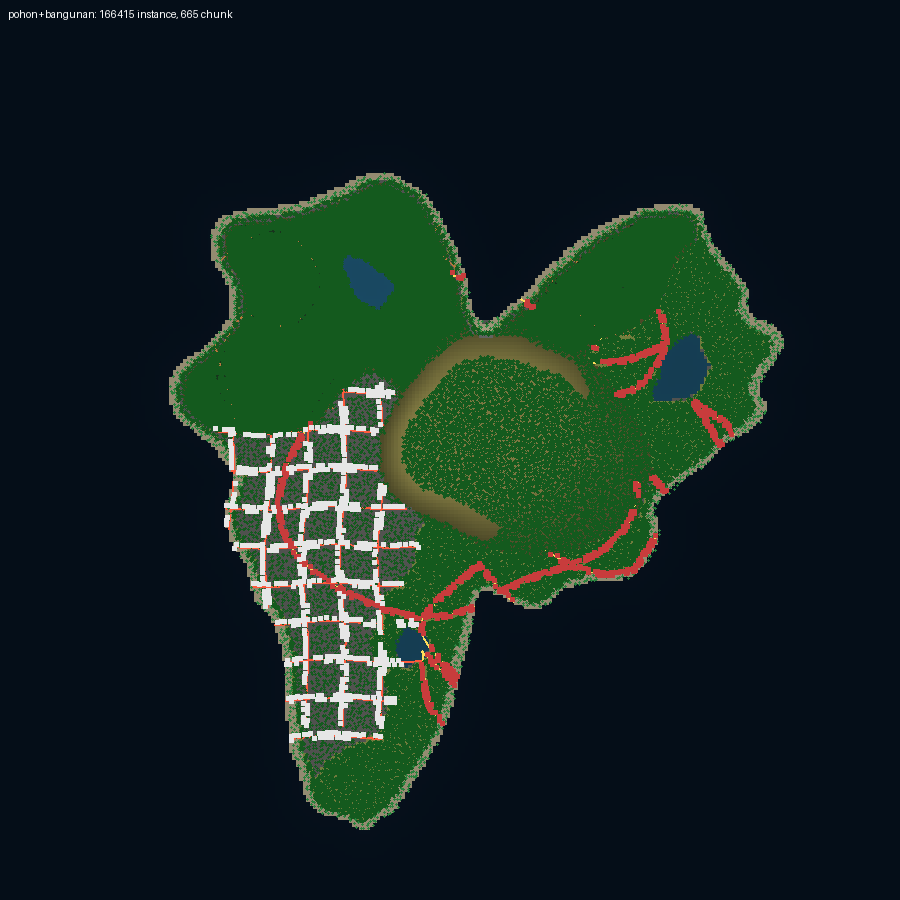
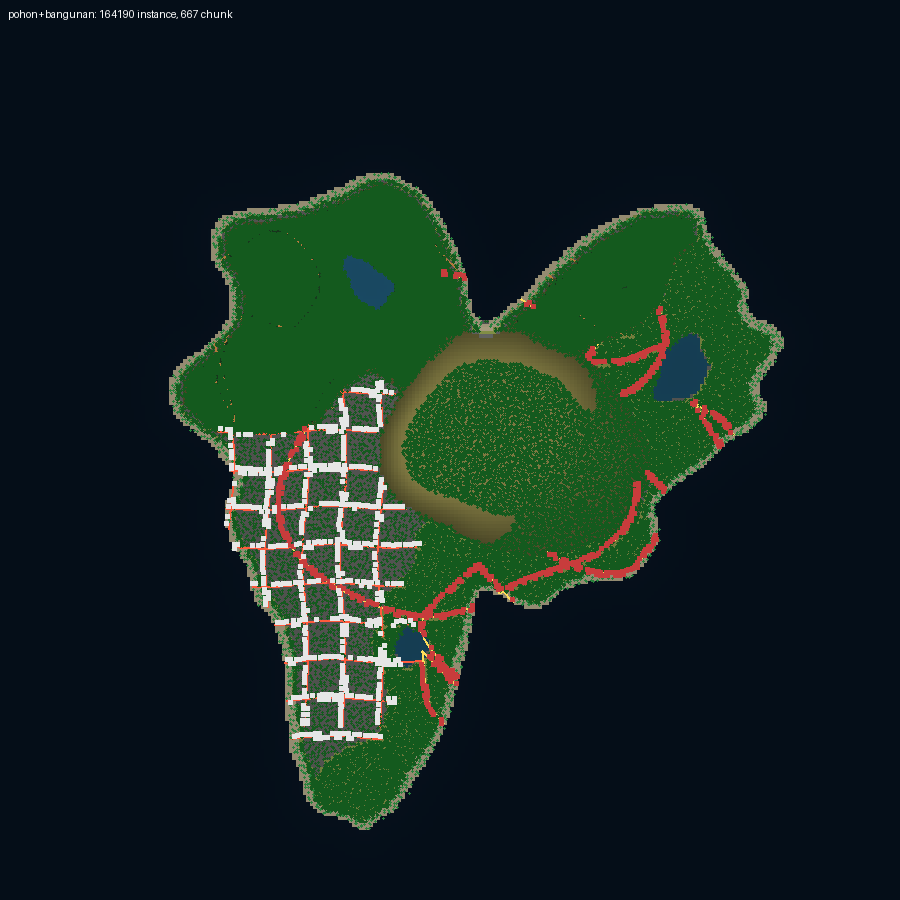
Jalan mengikuti terrain final, pohon bebas jalan, tekstur lebih tajam, siap Android 15
- Rantai aset: build_world (pad) -> build_roads -> build_world -> fix_scene.
  Sebelumnya jalan dibuat sebelum terrain diratakan sehingga 17% verteks
  tenggelam; sekarang 0.
- build_world: peta jarak presisi ke tepi jalan (road_d) menggantikan grid
  37,5 m; pohon/rumah/gedung tidak lagi menempel jalan (707 -> 0).
  Seed per tahap (reseed) agar menjalankan ulang tidak menggeser dunia.
- gltf.cpp: mip dibatasi 1/4 resolusi + anisotropic 8x (tekstur miring tajam),
  pack_assets: unsharp mask + JPEG 4:4:4 q92.
- apkbuild: extractNativeLibs=false, .so tersimpan & selaras 16 KB (Android 15),
  APK 21 MB.

diff --git a/tools/build_world.py b/tools/build_world.py
@@ -25,6 +25,17 @@ from build_roads import Terrain, GEN, PREV  # noqa: E402
 SEED = 20261106
 rng = np.random.default_rng(SEED)
 
+
+def reseed(tag):
+    """Seed per tahap: script ini dijalankan dua kali (sebelum & sesudah jalan
+    dibuat) dan hasilnya harus identik. Tanpa ini, pemakaian rng bersama membuat
+    pohon/gedung bergeser setiap kali urutan tahap berubah."""
+    global rng
+    off = 0
+    for ch in tag:                      # hash stabil (hash() berubah antar proses)
+        off = (off * 131 + ord(ch)) % 100000
+    rng = np.random.default_rng(SEED + off)
+
 # tipe objek: 0 oak,1 spruce,2 sakura,3 palm, 4..15 rumah desa A1..D3, 16..27 gedung kota A1..D3
 TYPE_TREE_OAK, TYPE_TREE_SPRUCE, TYPE_TREE_SAKURA, TYPE_TREE_PALM = 0, 1, 2, 3
 TYPE_DESA0, TYPE_KOTA0 = 4, 16
@@ -63,8 +74,9 @@ class World:
         self.roads = json.load(open(os.path.join(GEN, "roads.json")))
         self.dx = (x1 - x0) / (N - 1)
         self.dz = (z1 - z0) / (N - 1)
-        # grid jarak ke jalan (untuk larangan pohon di jalan)
+        # peta jarak ke jalan (untuk larangan pohon di jalan) + penanda kasar
         self.road_grid = np.zeros((N, N), np.uint8)
+        self.road_d = np.full((N, N), 999.0, np.float32)
         self.raster_roads()
         self.slope = self.compute_slope(self.H0)
 
@@ -90,8 +102,13 @@ class World:
                         else:
                             t = max(0.0, min(1.0, ((px - x0) * vx + (pz - z0) * vz) / L2))
                         ddx = px - (x0 + t * vx); ddz = pz - (z0 + t * vz)
-                        if ddx * ddx + ddz * ddz <= w * w:
+                        d2 = ddx * ddx + ddz * ddz
+                        if d2 <= w * w:
                             self.road_grid[jj, ii] = 1
+                        # jarak presisi ke tepi jalan (badan + trotoar)
+                        edge = math.sqrt(d2) - w
+                        if edge < self.road_d[jj, ii]:
+                            self.road_d[jj, ii] = edge
 
     def compute_slope(self, H):
         gy, gx = np.gradient(H, self.dz, self.dx)
@@ -111,7 +128,7 @@ class World:
         j = int(np.clip((z - self.z0) / self.dz, 0, self.N - 1))
         return j, i
 
-    def valid_spot(self, x, z, max_slope=25.0, min_h=1.2):
+    def valid_spot(self, x, z, max_slope=22.0, min_h=1.2, edge_clear=3.0):
         j, i = self.cell(x, z)
         if self.bio[j, i] in (0, 6):
             return False
@@ -119,7 +136,8 @@ class World:
             return False
         if self.slope[j, i] > max_slope:
             return False
-        if self.road_grid[j, i]:
+        # uji jarak presisi: grid 37,5 m terlalu kasar untuk tepi jalan
+        if self.road_d[j, i] < edge_clear:
             return False
         return True
 
@@ -141,6 +159,7 @@ class World:
 
     # -------------------------------------------------------------- penempatan
     def place_trees(self):
+        reseed("trees")
         out = []
         N = self.N
         dxs = (self.x1 - self.x0) / N
@@ -194,6 +213,7 @@ class World:
         return pts
 
     def place_buildings(self):
+        reseed("buildings")
         buildings = []
         occupied = []
 
@@ -216,7 +236,7 @@ class World:
             side = 1.0 if rng.random() < 0.5 else -1.0
             off = w * 0.5 + 9.0 + rng.uniform(0, 6)
             bx = x + (-tz) * off * side; bz = z + (tx) * off * side
-            if not self.valid_spot(bx, bz, max_slope=12.0):
+            if not self.valid_spot(bx, bz, max_slope=12.0, edge_clear=4.5):
                 continue
             if not far_enough(bx, bz, 14.0):
                 continue
@@ -243,7 +263,7 @@ class World:
                     continue
                 off = w * 0.5 + 2.0 + 10.0 + rng.uniform(0, 8)
                 bx = x + (-tz) * off * side; bz = z + (tx) * off * side
-                if not self.valid_spot(bx, bz, max_slope=10.0):
+                if not self.valid_spot(bx, bz, max_slope=10.0, edge_clear=4.5):
                     continue
                 if not far_enough(bx, bz, 26.0):
                     continue

diff --git a/app/jni/platform.cpp b/app/jni/platform.cpp
@@ -41,6 +41,7 @@ void (*pglClearColor)(float, float, float, float); void (*pglViewport)(int, int,
 void (*pglDepthFunc)(GLenumT); void (*pglDepthMask)(GLbooleanT); void (*pglCullFace)(GLenumT);
 void (*pglFrontFace)(GLenumT); void (*pglBlendFunc)(GLenumT, GLenumT); void (*pglScissor)(int, int, int, int);
 void (*pglGetIntegerv)(GLenumT, int*); const char* (*pglGetString)(GLenumT);
+void (*pglTexParameterf)(GLenumT, GLenumT, float); void (*pglGetFloatv)(GLenumT, float*);
 void (*pglPixelStorei)(GLenumT, int); void (*pglPolygonOffset)(float, float);
 void (*pglGenBuffers)(int, GLuintT*); void (*pglBindBuffer)(GLenumT, GLuintT);
 void (*pglBufferData)(GLenumT, GLsizeiptrT, const void*, GLenumT);
@@ -114,7 +115,8 @@ bool glLoadAll() {
         "glUniform1i", "glUniform1f", "glUniform2f", "glUniform3f", "glUniform4f",
         "glUniformMatrix4fv", "glGenTextures", "glBindTexture", "glTexImage2D",
         "glTexParameteri", "glDeleteTextures", "glGenerateMipmap", "glActiveTexture",
-        "glDrawElements", "glDrawArrays", "glDrawElementsInstanced", "glDrawArraysInstanced"};
+        "glDrawElements", "glDrawArrays", "glDrawElementsInstanced", "glDrawArraysInstanced",
+        "glTexParameterf", "glGetFloatv"};
     static void** dst[] = {
         (void**)&pglEnable, (void**)&pglDisable, (void**)&pglClear, (void**)&pglClearColor,
         (void**)&pglViewport, (void**)&pglDepthFunc, (void**)&pglDepthMask, (void**)&pglCullFace,
@@ -135,7 +137,7 @@ bool glLoadAll() {
         (void**)&pglBindTexture, (void**)&pglTexImage2D, (void**)&pglTexParameteri,
         (void**)&pglDeleteTextures, (void**)&pglGenerateMipmap, (void**)&pglActiveTexture,
         (void**)&pglDrawElements, (void**)&pglDrawArrays, (void**)&pglDrawElementsInstanced,
-        (void**)&pglDrawArraysInstanced};
+        (void**)&pglDrawArraysInstanced, (void**)&pglTexParameterf, (void**)&pglGetFloatv};
     int n = (int)(sizeof(names) / sizeof(names[0]));
     for (int i = 0; i < n; i++) {
         void* p = dlsym(gl, names[i]);

diff --git a/tools/apkbuild.py b/tools/apkbuild.py
@@ -34,6 +34,7 @@ RES_IDS = {
     "resizeableActivity": 0x010104f7, "exported": 0x01010010,
     "allowBackup": 0x01010280, "value": 0x01010024, "required": 0x0101028e,
     "hasCode": 0x0101000c, "usesCleartextTraffic": 0x010104ec,
+    "extractNativeLibs": 0x010104ea,
 }
 
 TYPE_REF, TYPE_STRING, TYPE_INT_DEC, TYPE_INT_HEX, TYPE_BOOL = 0x01, 0x03, 0x10, 0x11, 0x12
@@ -189,6 +190,8 @@ def manifest_tree(pkg, version_name, version_code, min_sdk, target_sdk, lib_name
         (A, "debuggable", _b(True)),
         (A, "hardwareAccelerated", _b(True)),
         (A, "allowBackup", _b(False)),
+        # Android 15/16: lib dibaca langsung dari APK (butuh .so tersimpan + selaras 16 KB)
+        (A, "extractNativeLibs", _b(False)),
     ], [native])
     return el("manifest", [
         ("", "package", _s(pkg)),
@@ -355,7 +358,10 @@ def build(out, lib_path, assets_dir, version_name, version_code, min_sdk, target
     man = build_axml(root)
     zw = ZipWriter()
     zw.add("AndroidManifest.xml", man, compress=True)
-    zw.add("lib/arm64-v8a/lib%s.so" % LIB, open(lib_path, "rb").read(), compress=True)
+    # .so TIDAK dikompresi & data-nya selaras 16384 (syarat Android 15+ untuk
+    # extractNativeLibs=false; sekaligus aman untuk semua versi lama).
+    zw.add("lib/arm64-v8a/lib%s.so" % LIB, open(lib_path, "rb").read(), compress=False,
+           align=16384)
     n_assets = 0
     for base, _, files in os.walk(assets_dir):
         for f in sorted(files):

diff --git a/app/jni/gltf.cpp b/app/jni/gltf.cpp
@@ -79,9 +79,29 @@ static u32 uploadTexture(const u8* enc, int len, int texMax) {
     pglTexParameteri(GL_TEXTURE_2D, GL_TEXTURE_MAG_FILTER, GL_LINEAR);
     pglTexParameteri(GL_TEXTURE_2D, GL_TEXTURE_WRAP_S, GL_REPEAT);
     pglTexParameteri(GL_TEXTURE_2D, GL_TEXTURE_WRAP_T, GL_REPEAT);
+    // mip hanya sampai 1/4 res: mip terkecil membuat permukaan miring (jalan/jembatan)
+    // terlihat buram, sementara pop aliasing praktis tidak terlihat di layar HP.
+    {
+        int lv = 0;
+        while ((w >> (lv + 2)) > 0 && (h >> (lv + 2)) > 0 && lv < 8) lv++;
+        pglTexParameteri(GL_TEXTURE_2D, GL_TEXTURE_MAX_LEVEL, lv);
+    }
     pglPixelStorei(GL_UNPACK_ALIGNMENT, 1);
     pglTexImage2D(GL_TEXTURE_2D, 0, GL_RGBA, w, h, 0, GL_RGBA, GL_UNSIGNED_BYTE, pix);
     pglGenerateMipmap(GL_TEXTURE_2D);
+    // anisotropic filtering: tekstur aspal & beton dilihat sangat miring saat menyetir
+    if (pglTexParameterf) {
+        static float aniso = -1.f;
+        if (aniso < 0.f) {
+            aniso = 1.f;
+            if (pglGetFloatv) {
+                float mx = 1.f;
+                pglGetFloatv(GL_MAX_TEXTURE_MAX_ANISOTROPY_EXT, &mx);
+                if (mx >= 2.f) aniso = mx > 8.f ? 8.f : mx;
+            }
+        }
+        if (aniso > 1.f) pglTexParameterf(GL_TEXTURE_2D, GL_TEXTURE_MAX_ANISOTROPY_EXT, aniso);
+    }
     stbi_image_free(pix);
     return tex;
 }

diff --git a/tools/pack_assets.py b/tools/pack_assets.py
@@ -21,7 +21,7 @@ import struct
 import sys
 
 import numpy as np
-from PIL import Image
+from PIL import Image, ImageFilter
 
 
 ROOT = os.path.dirname(os.path.dirname(os.path.abspath(__file__)))
@@ -74,8 +74,13 @@ def png_embed(js, bin_, img_index, maxpx=1024, quality=92):
     im = Image.open(io.BytesIO(data)).convert("RGB")
     if max(im.size) > maxpx:
         im.thumbnail((maxpx, maxpx), Image.LANCZOS)
+    # Unsharp mask ringan: tekstur hasil render/sketsa sumber sering kehilangan
+    # kontras tepi setelah penskalaan, ini yang terbaca "burem" di layar HP.
+    im = im.filter(ImageFilter.UnsharpMask(radius=1.2, percent=55, threshold=2))
+    # 4:4:4 (tanpa subsampling kroma) supaya tepi berwarna tetap tajam;
+    # dengan quality 92 ukurannya masih wajar.
     b = io.BytesIO()
-    im.save(b, "JPEG", quality=quality, optimize=True)
+    im.save(b, "JPEG", quality=quality, optimize=True, subsampling=0)
     return b.getvalue()
 
 

diff --git a/app/jni/gl_api.h b/app/jni/gl_api.h
@@ -65,6 +65,9 @@ extern EGLintT(*peglBindAPI)(uint32_t);
 #define GL_VENDOR 0x1F00
 #define GL_RENDERER 0x1F01
 #define GL_EXTENSIONS 0x1F03
+#define GL_MAX_TEXTURE_MAX_ANISOTROPY_EXT 0x84FF
+#define GL_TEXTURE_MAX_ANISOTROPY_EXT     0x84FE
+#define GL_TEXTURE_MAX_LEVEL              0x813D
 #define GL_MAX_TEXTURE_SIZE 0x0D33
 
 #define GL_DEPTH_TEST 0x0B71
@@ -179,6 +182,8 @@ extern void (*pglBindTexture)(GLenumT, GLuintT);
 extern void (*pglTexImage2D)(GLenumT, int, int, int, int, int, GLenumT, GLenumT, const void*);
 extern void (*pglTexParameteri)(GLenumT, GLenumT, int);
 extern void (*pglDeleteTextures)(int, const GLuintT*);
+extern void (*pglTexParameterf)(GLenumT, GLenumT, float);   // dipakai anisotropic
+extern void (*pglGetFloatv)(GLenumT, float*);
 extern void (*pglGenerateMipmap)(GLenumT);
 extern void (*pglActiveTexture)(GLenumT);
 

diff --git a/tools/game_sim.cpp b/tools/game_sim.cpp
@@ -121,6 +121,10 @@ void (*pglTexParameteri)(GLenumT, GLenumT, int) = ntexp;
 void (*pglDeleteTextures)(int, const GLuintT*) = ndeltex;
 void (*pglGenerateMipmap)(GLenumT) = n1e;
 void (*pglActiveTexture)(GLenumT) = n1e;
+static void ngf(GLenumT p, float* v) { (void)p; if (v) *v = 1.0f; }
+void (*pglGetFloatv)(GLenumT, float*) = ngf;
+static void ngtpf(GLenumT a, GLenumT b, float c) { (void)a; (void)b; (void)c; }
+void (*pglTexParameterf)(GLenumT, GLenumT, float) = ngtpf;
 void (*pglDrawElements)(GLenumT, int, GLenumT, const void*) = ndrawe;
 void (*pglDrawArrays)(GLenumT, int, int) = ndrawa;
 void (*pglDrawElementsInstanced)(GLenumT, int, GLenumT, const void*, int) = ndrawei;

diff --git a/tools/host_test.cpp b/tools/host_test.cpp
@@ -124,6 +124,10 @@ void fDelTex(int,const GLuintT*){}
 void (*pglDeleteTextures)(int, const GLuintT*) = fDelTex;
 void fp_pglGenerateMipmap(GLenumT) {}
 void (*pglGenerateMipmap)(GLenumT) = fp_pglGenerateMipmap;
+void fp_pglGetFloatv(GLenumT p, float* v) { (void)p; if (v) *v = 1.0f; }
+void (*pglGetFloatv)(GLenumT, float*) = fp_pglGetFloatv;
+void fp_pglTexParameterf(GLenumT a, GLenumT b, float c) { (void)a; (void)b; (void)c; }
+void (*pglTexParameterf)(GLenumT, GLenumT, float) = fp_pglTexParameterf;
 void fp_pglActiveTexture(GLenumT) {}
 void (*pglActiveTexture)(GLenumT) = fp_pglActiveTexture;
 void fDrawE(GLenumT,int,GLenumT,const void*){}
